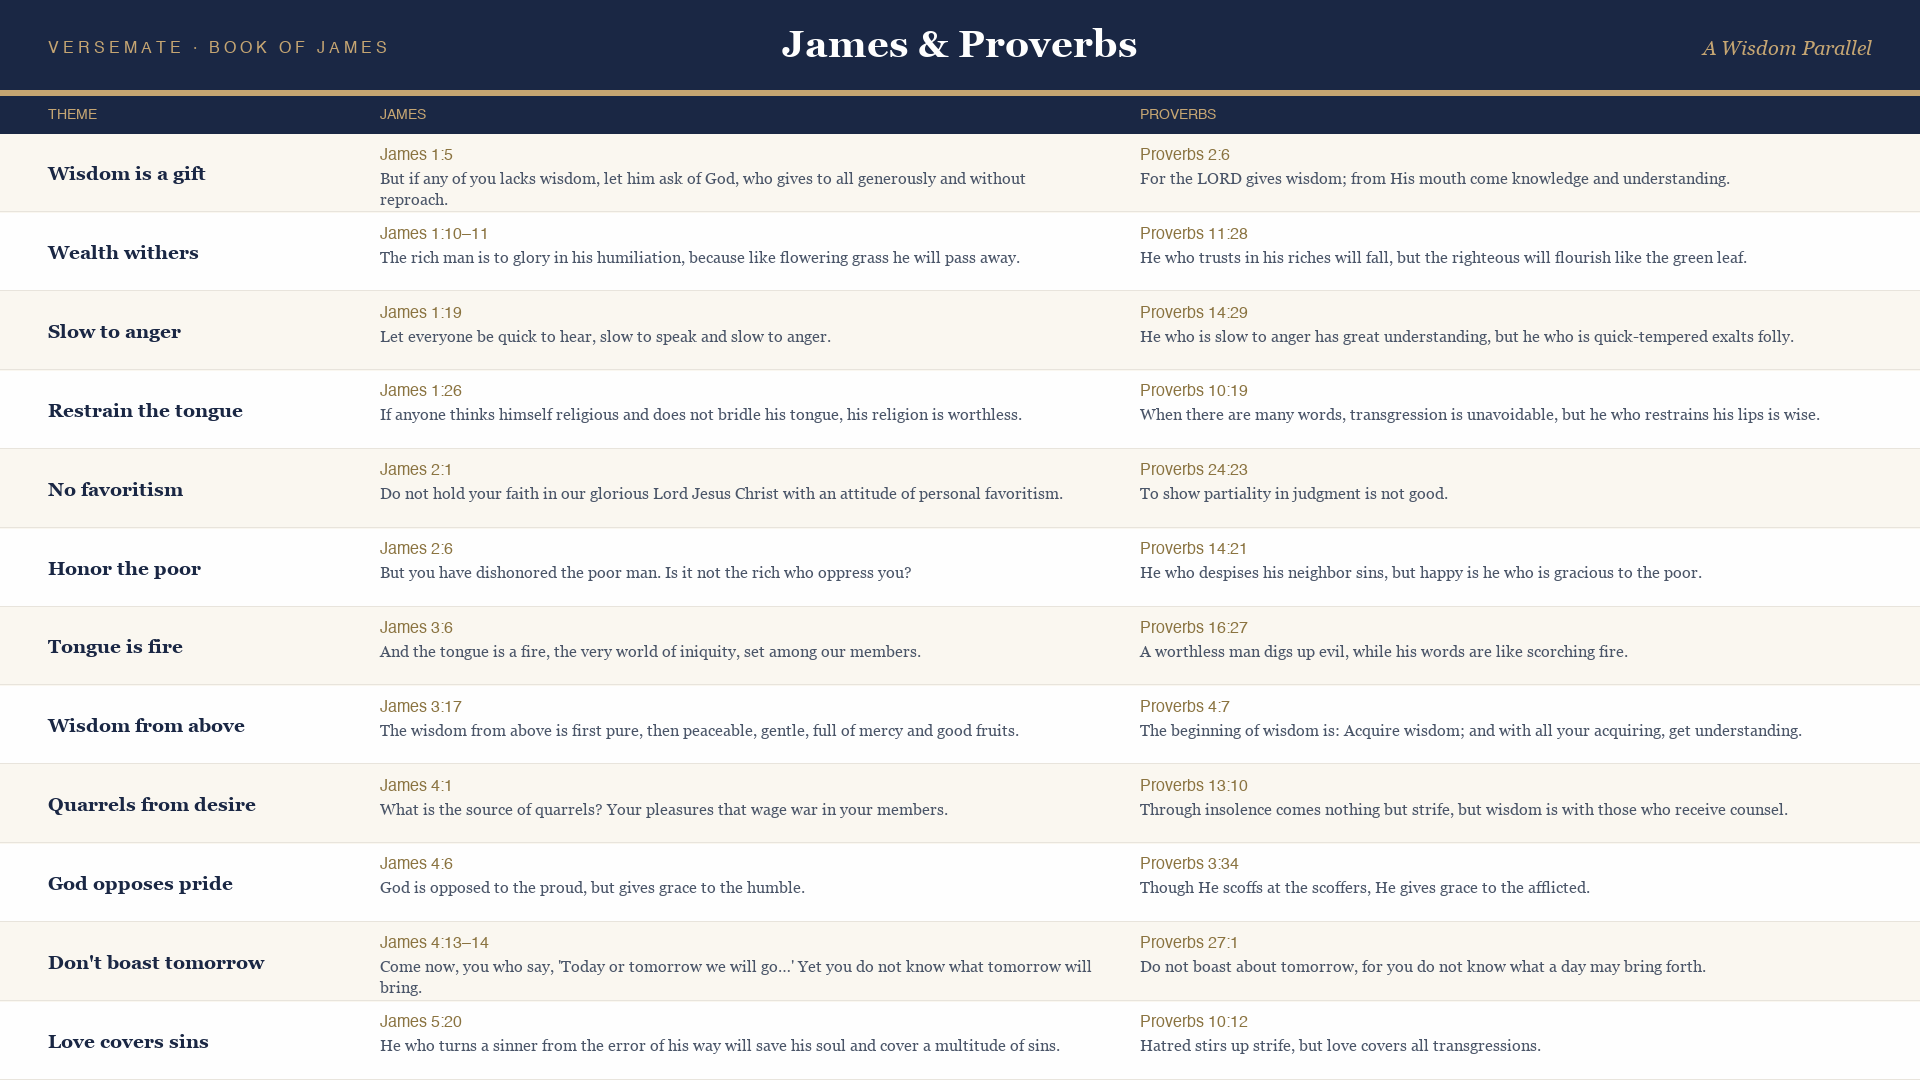
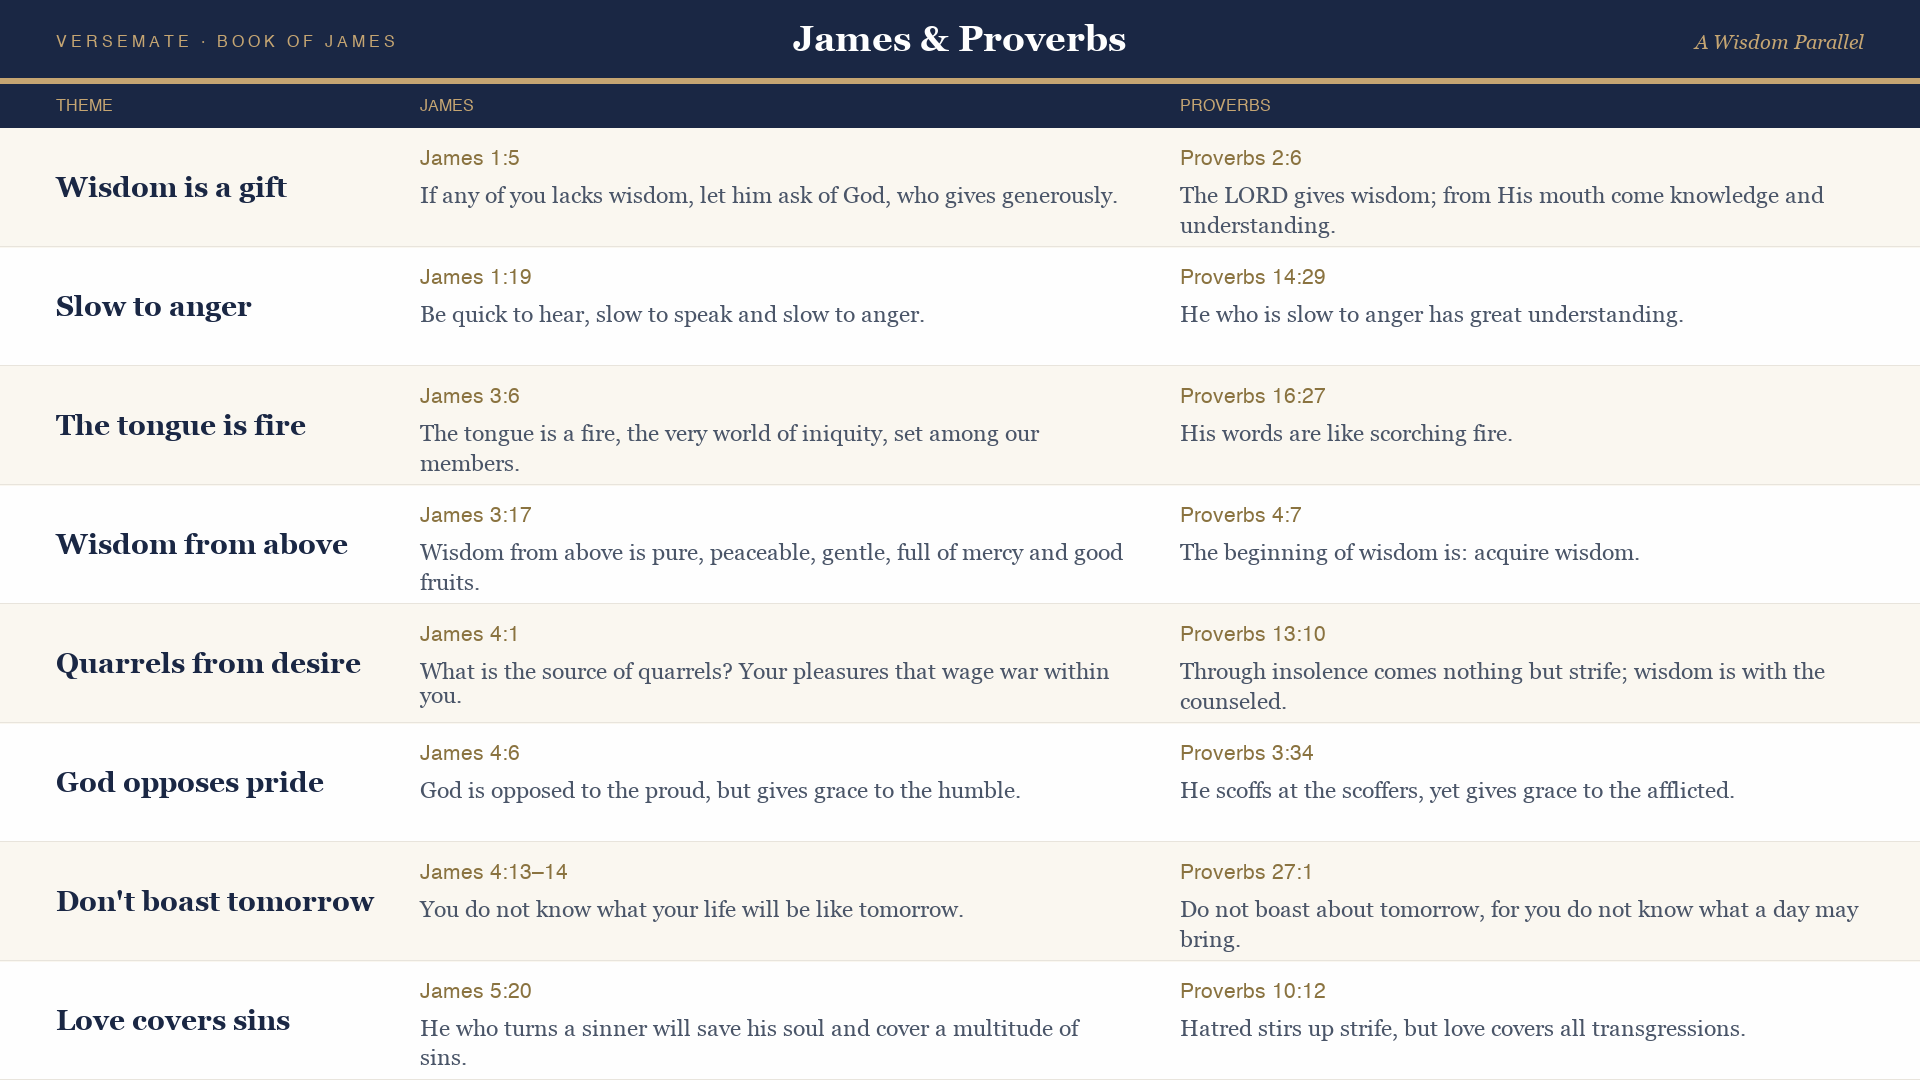
polish(visuals): readable originals, shorter cards, full-screen lightbox
Follow-up to the polish PR after Andy flagged "still too tall, originals
not readable":

1. **Cards are much shorter.** Dropped the caption from each card — only
   the title remains (single line, ellipsis if too long). The image
   stays 16:9. The caption now lives only inside the lightbox top bar.
   This shaves ~32px per card and gets multiple cards visible in one
   scroll without scrolling.

2. **Lightbox is now image-first.** Replaced the card-style modal with
   a full-viewport overlay:
   - Solid #0a0a0a backdrop (no bleed-through from the gallery
     underneath, which was visible at the old 0.75-opacity scrim).
   - Thin gradient top bar with title + "PDF ↓" link + close X.
   - Image fills the whole viewport via flex centering, fit-to-screen
     by default.
   - **Click image to toggle 1:1 zoom** — the image renders at its
     native 1920×1080 and the container scrolls so you can pan to read
     fine print. Mobile gets native pinch-zoom via touch-action.
   - Attribution moved to a tiny corner badge in the bottom-left.

3. **Versemate originals redesigned for readability at every viewport.**
   - **Parallels chart:** cut from 12 to 8 strongest parallels and
     bumped fonts substantially (theme 19→28pt, verse text 16→23pt).
     Verse strings tightened so each fits in 2 lines max. The chart
     reads cleanly in card preview, lightbox fit-to-screen, and 1:1
     zoom.
   - **Architecture of James heatmap:** lane labels 13→17pt, Greek
[…]

diff --git a/src/components/VisualsPanel.tsx b/src/components/VisualsPanel.tsx
@@ -87,6 +87,7 @@ export default function VisualsPanel({ book, chapter }: Props) {
   const [openImageId, setOpenImageId] = useState<string | null>(null);
   const [videoOpen, setVideoOpen] = useState(false);
   const [copied, setCopied] = useState(false);
+  const [zoomed, setZoomed] = useState(false);
 
   const visuals = JAMES_VISUALS;
   const openImage = visuals.find((v) => v.id === openImageId) ?? null;
@@ -96,7 +97,13 @@ export default function VisualsPanel({ book, chapter }: Props) {
   useEffect(() => {
     setOpenImageId(null);
     setVideoOpen(false);
+    setZoomed(false);
   }, [book, chapter]);
+
+  // Reset zoom when switching between images or closing the lightbox.
+  useEffect(() => {
+    setZoomed(false);
+  }, [openImageId]);
 
   // Close any open modal on Escape.
   useEffect(() => {
@@ -389,28 +396,20 @@ export default function VisualsPanel({ book, chapter }: Props) {
                 {v.attribution.label}
               </div>
             </div>
-            <div style={{ padding: '10px 12px 12px' }}>
+            <div style={{ padding: '8px 12px 10px' }}>
               <div
                 style={{
                   fontFamily: 'Roboto, sans-serif',
                   fontWeight: 600,
-                  fontSize: 14,
+                  fontSize: 13,
                   color: vmTokens.textPrimary,
-                  marginBottom: 4,
-                  lineHeight: '20px',
+                  lineHeight: '18px',
+                  whiteSpace: 'nowrap',
+                  overflow: 'hidden',
+                  textOverflow: 'ellipsis',
                 }}
               >
                 {v.title}
-              </div>
-              <div
-                style={{
-                  fontFamily: 'Roboto, sans-serif',
-                  fontSize: 12,
-                  color: vmTokens.textSecondary,
-                  lineHeight: '16px',
-                }}
-              >
-                {v.caption}
               </div>
             </div>
           </button>
@@ -507,126 +506,159 @@ export default function VisualsPanel({ book, chapter }: Props) {
         </Overlay>
       )}
 
-      {/* === Image Lightbox === */}
+      {/* === Image Lightbox — image-first, minimal chrome === */}
       {openImage && (
-        <Overlay onClose={() => setOpenImageId(null)} testId="visuals-image-overlay">
+        <Overlay onClose={() => setOpenImageId(null)} testId="visuals-image-overlay" fill>
           <div
             style={{
-              width: '100%',
-              maxWidth: 1200,
-              maxHeight: '92vh',
-              background: vmTokens.surfaceRaisedBg,
-              borderRadius: 12,
-              overflow: 'hidden',
+              width: '100vw',
+              height: '100vh',
               position: 'relative',
               display: 'flex',
               flexDirection: 'column',
             }}
             onClick={(e) => e.stopPropagation()}
           >
-            <CloseButton onClose={() => setOpenImageId(null)} />
+            {/* Thin top bar: title + download + close. No card chrome below. */}
             <div
               style={{
-                flex: 1,
-                overflow: 'auto',
-                background: vmTokens.pageBg,
+                position: 'absolute',
+                top: 0,
+                left: 0,
+                right: 0,
+                zIndex: 3,
                 display: 'flex',
                 alignItems: 'center',
-                justifyContent: 'center',
-                padding: 16,
-                minHeight: 0,
+                gap: 12,
+                padding: '10px 12px',
+                background: 'linear-gradient(180deg, rgba(0,0,0,0.65) 0%, rgba(0,0,0,0) 100%)',
               }}
             >
-              <img
-                src={openImage.full}
-                alt={openImage.title}
-                style={{
-                  maxWidth: '100%',
-                  maxHeight: '100%',
-                  height: 'auto',
-                  display: 'block',
-                  objectFit: 'contain',
-                }}
-              />
-            </div>
-            <div
-              style={{
-                padding: 16,
-                borderTop: `1px solid ${vmTokens.divider}`,
-                display: 'flex',
-                flexDirection: 'column',
-                gap: 10,
-              }}
-            >
-              <div>
-                <div
-                  style={{
-                    fontFamily: 'Roboto, sans-serif',
-                    fontWeight: 700,
-                    fontSize: 15,
-                    color: vmTokens.textPrimary,
-                    marginBottom: 4,
-                    lineHeight: '20px',
-                  }}
-                >
-                  {openImage.title}
-                </div>
-                <div
-                  style={{
-                    fontFamily: 'Roboto, sans-serif',
-                    fontSize: 12,
-                    color: vmTokens.textSecondary,
-                    lineHeight: '18px',
-                  }}
-                >
-                  {openImage.caption}
-                </div>
-              </div>
               <div
                 style={{
-                  display: 'flex',
-                  flexWrap: 'wrap',
-                  alignItems: 'center',
-                  justifyContent: 'space-between',
-                  gap: 10,
+                  flex: 1,
+                  minWidth: 0,
+                  fontFamily: 'Roboto, sans-serif',
+                  fontWeight: 600,
+                  fontSize: 14,
+                  color: '#FAF6EA',
+                  whiteSpace: 'nowrap',
+                  overflow: 'hidden',
+                  textOverflow: 'ellipsis',
                 }}
               >
+                {openImage.title}
+              </div>
+              {openImage.download && (
                 <a
-                  href={openImage.attribution.href}
+                  href={openImage.download.href}
                   target="_blank"
                   rel="noopener noreferrer"
                   style={{
                     fontFamily: 'Roboto, sans-serif',
-                    fontSize: 11,
-                    color: vmTokens.gold,
-                    textTransform: 'uppercase',
-                    letterSpacing: 1.2,
+                    fontSize: 12,
                     fontWeight: 500,
+                    color: '#FAF6EA',
+                    background: 'rgba(0,0,0,0.55)',
+                    border: `1px solid ${vmTokens.gold}`,
+                    padding: '4px 10px',
+                    borderRadius: 4,
                     textDecoration: 'none',
+                    whiteSpace: 'nowrap',
                   }}
+                  data-testid="visuals-lightbox-download"
                 >
-                  {openImage.attribution.label}
+                  PDF ↓
                 </a>
-                {openImage.download && (
-                  <a
-                    href={openImage.download.href}
-                    target="_blank"
-                    rel="noopener noreferrer"
-                    style={{
-                      fontFamily: 'Roboto, sans-serif',
-                      fontSize: 13,
-                      color: vmTokens.gold,
-                      border: `1px solid ${vmTokens.gold}`,
-                      padding: '6px 12px',
-                      borderRadius: 6,
-                      textDecoration: 'none',
-                      fontWeight: 500,
-                    }}
-                  >
-                    {openImage.download.label}
-                  </a>
-                )}
-              </div>
+              )}
+              <button
+                onClick={() => setOpenImageId(null)}
+                aria-label="Close"
+                data-testid="visuals-overlay-close"
+                style={{
+                  width: 36,
+                  height: 36,
+                  borderRadius: '50%',
+                  background: 'rgba(0,0,0,0.55)',
+                  border: 'none',
+                  cursor: 'pointer',
+                  display: 'flex',
+                  alignItems: 'center',
+                  justifyContent: 'center',
+                  flexShrink: 0,
+                }}
+              >
+                <X size={20} color="#FAF6EA" />
+              </button>
+            </div>
+
+            {/* Image area — fills the entire viewport. Click toggles between
+                fit-to-screen and 1:1 native size (which scrolls). Mobile
+                browsers can also pinch-zoom natively via touch-action. */}
+            <div
+              style={{
+                flex: 1,
+                overflow: 'auto',
+                display: 'flex',
+                alignItems: zoomed ? 'flex-start' : 'center',
+                justifyContent: zoomed ? 'flex-start' : 'center',
+                touchAction: 'pinch-zoom',
+                WebkitOverflowScrolling: 'touch',
+              }}
+              onClick={() => setZoomed((z) => !z)}
+            >
+              <img
+                src={openImage.full}
+                alt={openImage.title}
+                draggable={false}
+                style={
+                  zoomed
+                    ? {
+                        width: 'auto',
+                        maxWidth: 'none',
+                        height: 'auto',
+                        cursor: 'zoom-out',
+                        display: 'block',
+                        userSelect: 'none',
+                      }
+                    : {
+                        maxWidth: '100%',
+                        maxHeight: '100%',
+                        height: 'auto',
+                        cursor: 'zoom-in',
+                        display: 'block',
+                        objectFit: 'contain',
+                        userSelect: 'none',
+                      }
+                }
+              />
+            </div>
+
+            {/* Tiny corner attribution — required by CC BY-SA but unobtrusive. */}
+            <div
+              style={{
+                position: 'absolute',
+                bottom: 10,
+                left: 10,
+                zIndex: 3,
+                fontFamily: 'Roboto, sans-serif',
+                fontSize: 10,
+                color: 'rgba(250,246,234,0.85)',
+                background: 'rgba(0,0,0,0.55)',
+                padding: '3px 8px',
+                borderRadius: 4,
+                pointerEvents: 'auto',
+              }}
+            >
+              <a
+                href={openImage.attribution.href}
+                target="_blank"
+                rel="noopener noreferrer"
+                onClick={(e) => e.stopPropagation()}
+                style={{ color: 'inherit', textDecoration: 'none' }}
+              >
+                {openImage.attribution.label}
+              </a>
             </div>
           </div>
         </Overlay>
@@ -639,10 +671,14 @@ function Overlay({
   children,
   onClose,
   testId,
+  fill,
 }: {
   children: React.ReactNode;
   onClose: () => void;
   testId?: string;
+  /** Fully-opaque dark backdrop — used for the image lightbox where we
+   *  want zero bleed-through from the underlying gallery. */
+  fill?: boolean;
 }) {
   return (
     <div
@@ -651,11 +687,11 @@ function Overlay({
       style={{
         position: 'fixed',
         inset: 0,
-        background: 'rgba(0,0,0,0.75)',
+        background: fill ? '#0a0a0a' : 'rgba(0,0,0,0.75)',
         display: 'flex',
         alignItems: 'center',
         justifyContent: 'center',
-        padding: 16,
+        padding: fill ? 0 : 16,
         zIndex: 1000,
       }}
     >